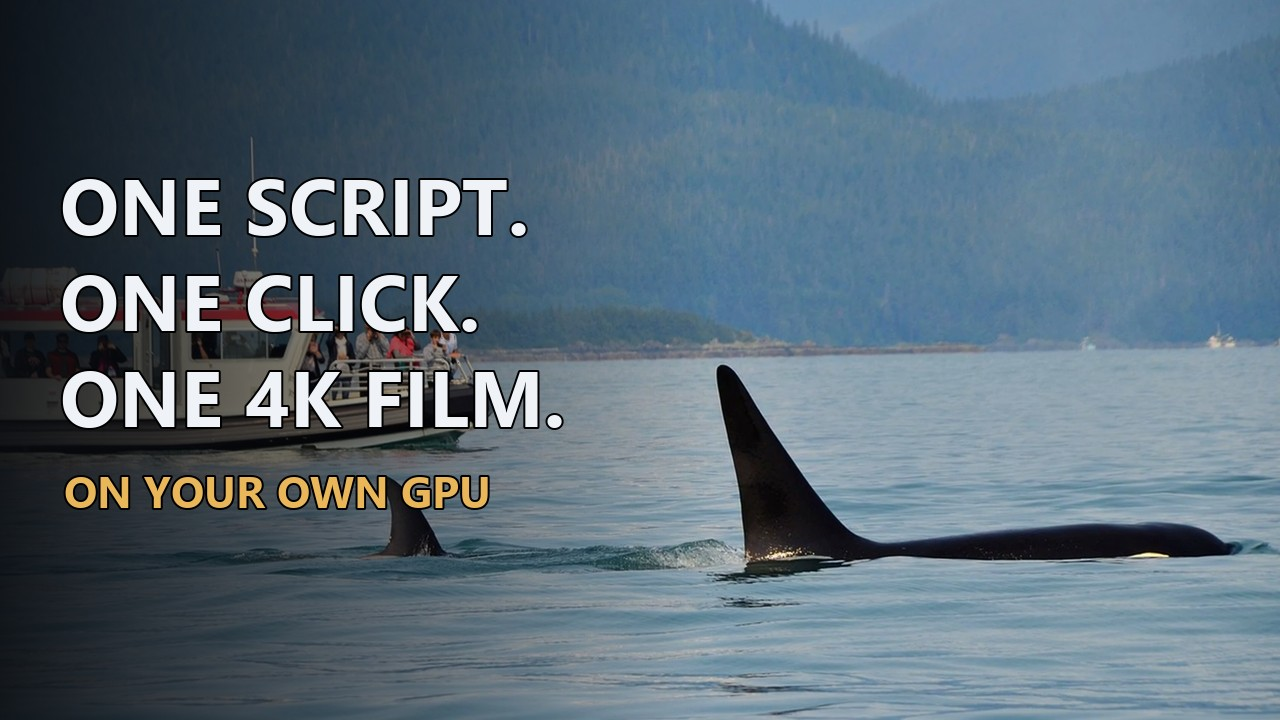
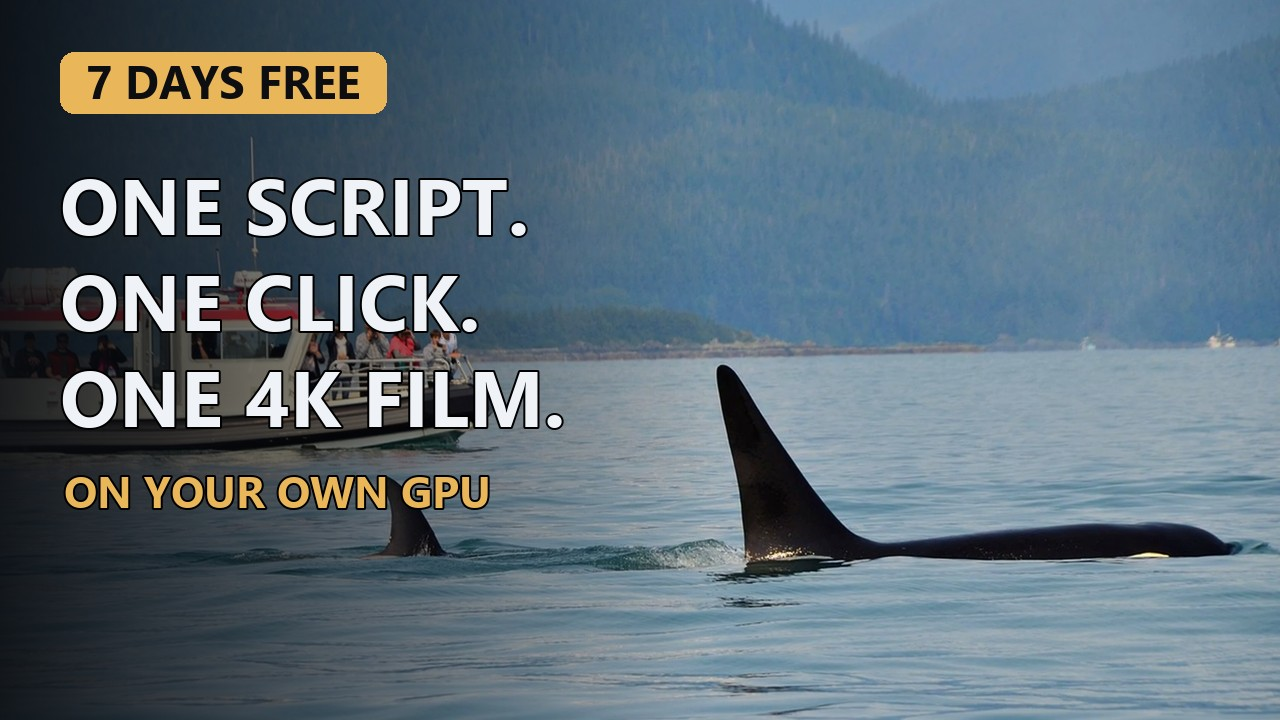
Website: the new demo (3.4.7, one plan) plays on the page; thumbnail with the 7-day free badge

Changed region(s): [[0.0312, 0.0611, 0.3125, 0.1833]]

diff --git a/docs/index.html b/docs/index.html
@@ -32,6 +32,12 @@
   .hero figure { margin: 0; border: 1px solid var(--line); border-radius: 12px; overflow: hidden; background: #000; }
   .hero figure img { display: block; width: 100%; height: auto; }
   .hero figcaption { padding: 10px 14px; color: var(--muted); font-size: 14px; }
+  .player { position: relative; display: block; width: 100%; aspect-ratio: 16 / 9; padding: 0; border: 0; background: #000; cursor: pointer; }
+  .player img { display: block; width: 100%; height: 100%; object-fit: cover; }
+  .player .play { position: absolute; left: 50%; top: 50%; width: 76px; height: 54px; margin: -27px 0 0 -38px; border-radius: 14px; background: rgba(15, 17, 20, .82); border: 1px solid rgba(255, 255, 255, .25); }
+  .player .play::after { content: ""; position: absolute; left: 31px; top: 15px; border-style: solid; border-width: 12px 0 12px 20px; border-color: transparent transparent transparent #fff; }
+  .player:hover .play { background: var(--gold); }
+  .player iframe { position: absolute; inset: 0; width: 100%; height: 100%; border: 0; }
   section { padding: 40px 0; border-top: 1px solid var(--line); }
   h2 { font-size: 26px; margin: 0 0 10px; font-weight: 650; }
   .sub { color: var(--muted); margin: 0 0 24px; }
@@ -90,12 +96,12 @@
       <p class="lead">Episode Factory runs on your own Windows PC and your own NVIDIA graphics card. You attach a script and ten to fifteen seconds of a voice, press Run, and it records the narration, checks every line against its own transcript, finds and judges the footage, and renders the film. One plan: £19 a month, unlimited films, and the first 7 days free.</p>
       <p class="needs"><b>Needs:</b> Windows 10 or 11 and an NVIDIA graphics card with 8 GB or more. It does not run on a Mac.</p>
       <a class="cta" href="https://localfactories.lemonsqueezy.com/checkout/buy/963e4604-248d-411c-8c4c-91035c45f6da" data-goatcounter-click="trial-hero">Start the 7-day free trial</a>
-      <a class="ghost" href="https://youtu.be/BzQ1iL3l3fA" data-goatcounter-click="demo-button">Watch the demo</a>
+      <a class="ghost" href="#demo" data-goatcounter-click="demo-button" onclick="playDemo(); return false;">Watch the demo</a>
       <p class="note" style="margin-top:18px">Made for long-form narrated formats — sleep documentaries, nature and history films, the kind of episode that runs for an hour or two and is listened to as much as watched.</p>
     </div>
     <figure>
-      <a href="https://youtu.be/BzQ1iL3l3fA" data-goatcounter-click="demo-thumbnail"><img src="demo-thumbnail.jpg" alt="Episode Factory demo — a written script becomes a narrated 4K film" width="1280" height="720"></a>
-      <figcaption>The demo: real runs of the product, every number on screen measured.</figcaption>
+      <a class="player" id="demo" href="https://youtu.be/Owo2AyJs0G4" data-goatcounter-click="demo-thumbnail" onclick="playDemo(); return false;" aria-label="Play the demo"><img src="demo-thumbnail.jpg" alt="Episode Factory demo — a written script becomes a narrated 4K film" width="1280" height="720"><span class="play"></span></a>
+      <figcaption>The demo, 3 minutes: real runs of the product, every number on screen measured.</figcaption>
     </figure>
   </section>
 
@@ -159,6 +165,23 @@
     <p>Pexels and Pixabay are independent services with their own terms; Episode Factory is not affiliated with them. NVIDIA is a trademark of NVIDIA Corporation.</p>
   </footer>
 </div>
+<script>
+  // the demo plays here, on the page: the picture is swapped for YouTube's privacy-enhanced player only when pressed
+  function playDemo() {
+    var p = document.getElementById("demo");
+    if (!p || p.querySelector("iframe")) return;
+    var f = document.createElement("iframe");
+    f.src = "https://www.youtube-nocookie.com/embed/Owo2AyJs0G4?autoplay=1&rel=0&playsinline=1";
+    f.title = "Episode Factory demo";
+    f.allow = "autoplay; encrypted-media; picture-in-picture; fullscreen";
+    f.allowFullscreen = true;
+    p.replaceChildren(f);
+    p.removeAttribute("href");
+    p.onclick = null;
+    p.style.cursor = "default";
+    p.scrollIntoView({ behavior: "smooth", block: "center" });
+  }
+</script>
 <script data-goatcounter="https://localfactories.goatcounter.com/count" async src="https://gc.zgo.at/count.js"></script>
 </body>
 </html>
